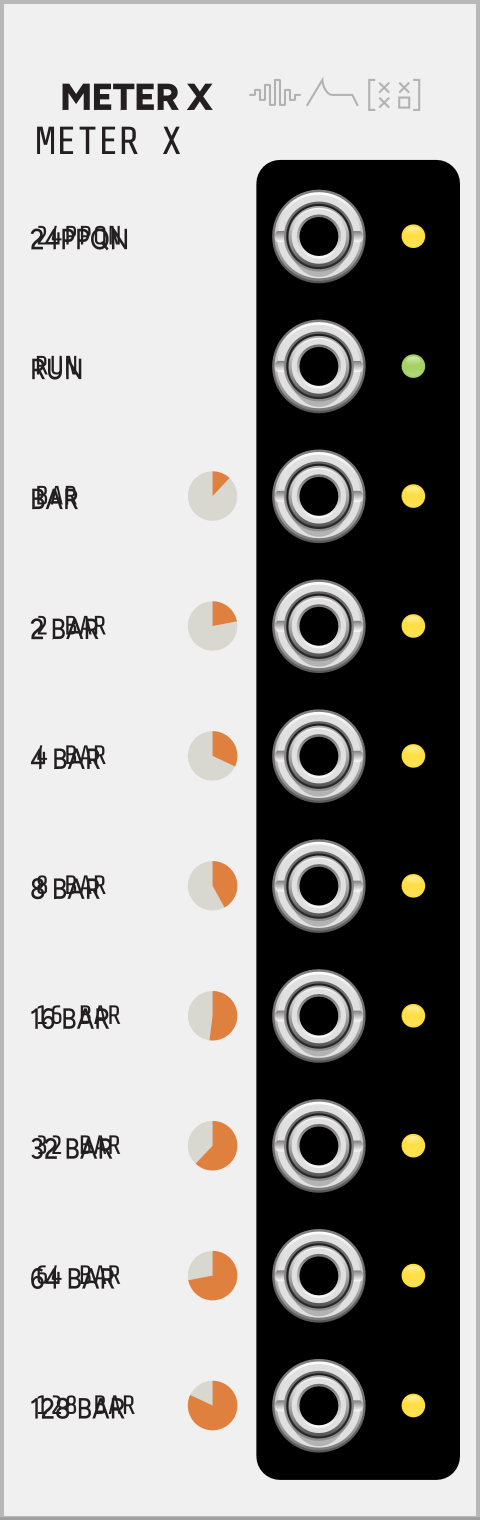
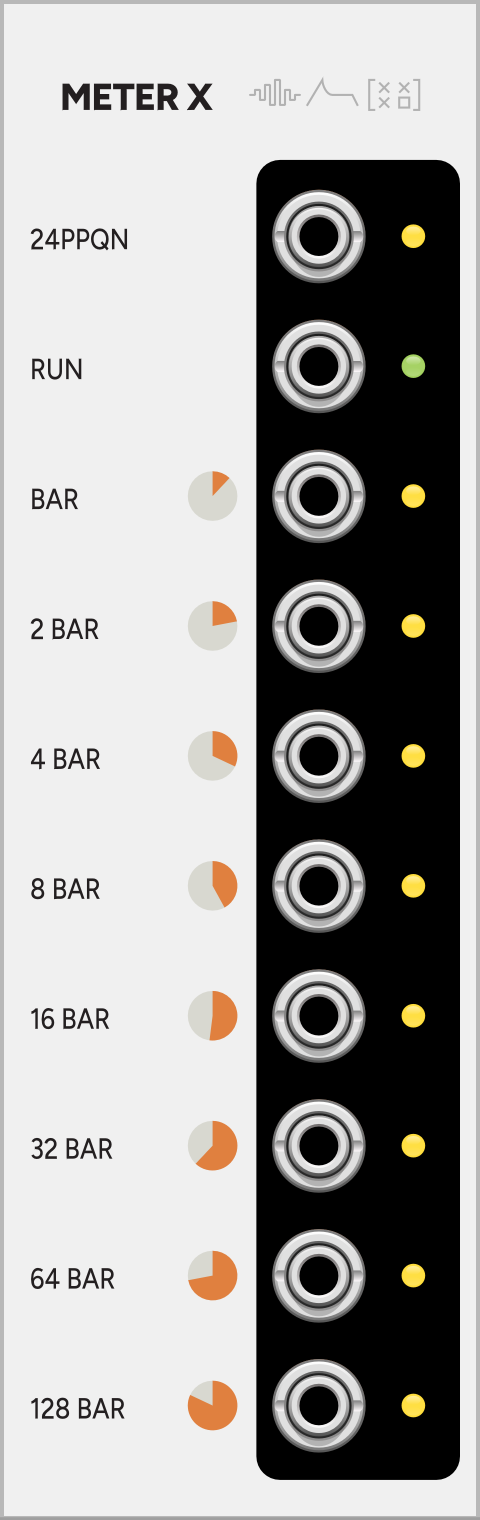
Release 2.16.3: fix doubled Meter X panel labels
Meter X's labels are baked into res/meterx.svg as vector outlines, but the widget
also drew them via nanovg (a leftover from when the panel was a reticule-only
template), so every label rendered twice and slightly offset. Removed the
code-drawn MXLabels layer (and the now-unused MX_LABELS array); MX_YS stays since
the pies and jack/LED placement use it. Cosmetic-only; shipped this way since
2.16.0.

diff --git a/src/meterx.cpp b/src/meterx.cpp
@@ -65,7 +65,6 @@ struct MeterX : Module {
 	}
 };
 
-static const char* MX_LABELS[10] = {"24PPQN", "RUN", "BAR", "2 BAR", "4 BAR", "8 BAR", "16 BAR", "32 BAR", "64 BAR", "128 BAR"};
 static const float MX_YS[10] = {20.f, 31.f, 42.f, 53.f, 64.f, 75.f, 86.f, 97.f, 108.f, 119.f};
 // Cycle length (in bars) each row's pie tracks. PPQN/RUN spin once per bar.
 static const float MX_PERIOD[10] = {1, 1, 1, 2, 4, 8, 16, 32, 64, 128};
@@ -75,22 +74,8 @@ static const float MX_X_PIE  = 18.f;
 static const float MX_X_JACK = 27.f;
 static const float MX_X_LED  = 35.f;
 
-// nanovg-drawn placeholder labels (VCV ignores SVG <text>) — see panel convention.
-struct MXLabels : Widget {
-	std::shared_ptr<Font> font;
-	void draw(const DrawArgs& args) override {
-		if (!font) font = APP->window->loadFont(asset::system("res/fonts/ShareTechMono-Regular.ttf"));
-		if (!font) return;
-		NVGcontext* vg = args.vg;
-		nvgFontFaceId(vg, font->handle);
-		nvgFillColor(vg, nvgRGB(0x23, 0x1f, 0x20));
-		nvgTextAlign(vg, NVG_ALIGN_LEFT | NVG_ALIGN_MIDDLE);
-		nvgFontSize(vg, 11.f);
-		Vec t = mm2px(Vec(3.f, 12.f)); nvgText(vg, t.x, t.y, "METER X", NULL);
-		nvgFontSize(vg, 7.5f);
-		for (int i = 0; i < 10; i++) { Vec p = mm2px(Vec(3.f, MX_YS[i])); nvgText(vg, p.x, p.y, MX_LABELS[i], NULL); }
-	}
-};
+// Labels are baked into res/meterx.svg as vector outlines (Stuart's final art), so
+// there's no code-drawn label layer — drawing one here would double every label.
 
 // Per-output cycle indicators: a small pie that fills clockwise as we advance
 // through that output's cycle (e.g. the 4-bar output fills over four bars, then
@@ -127,8 +112,7 @@ struct MeterXWidget : ModuleWidget {
 	MeterXWidget(MeterX* module) {
 		setModule(module);
 		setPanel(createPanel(asset::plugin(pluginInstance, "res/meterx.svg")));
-		// No virtual screws — see CLAUDE.md.
-		addChild(new MXLabels());
+		// No virtual screws — see CLAUDE.md. Labels come from the SVG art (not code).
 		MXPies* pies = new MXPies(); pies->module = module; pies->box.size = box.size; addChild(pies);
 
 		const float* ys = MX_YS;